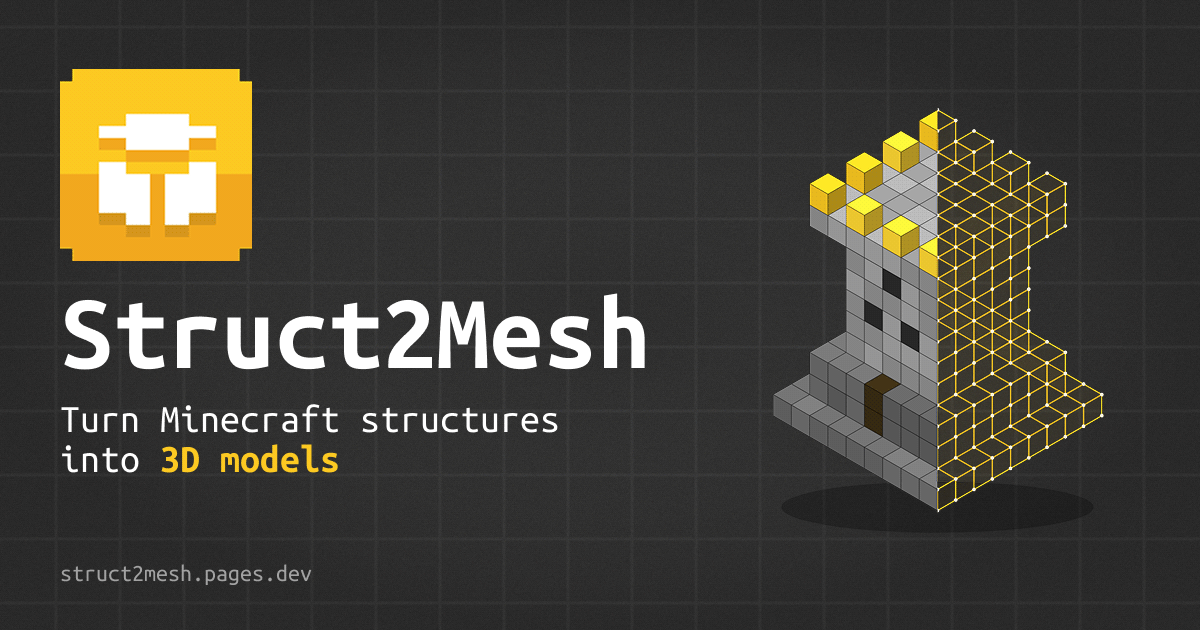
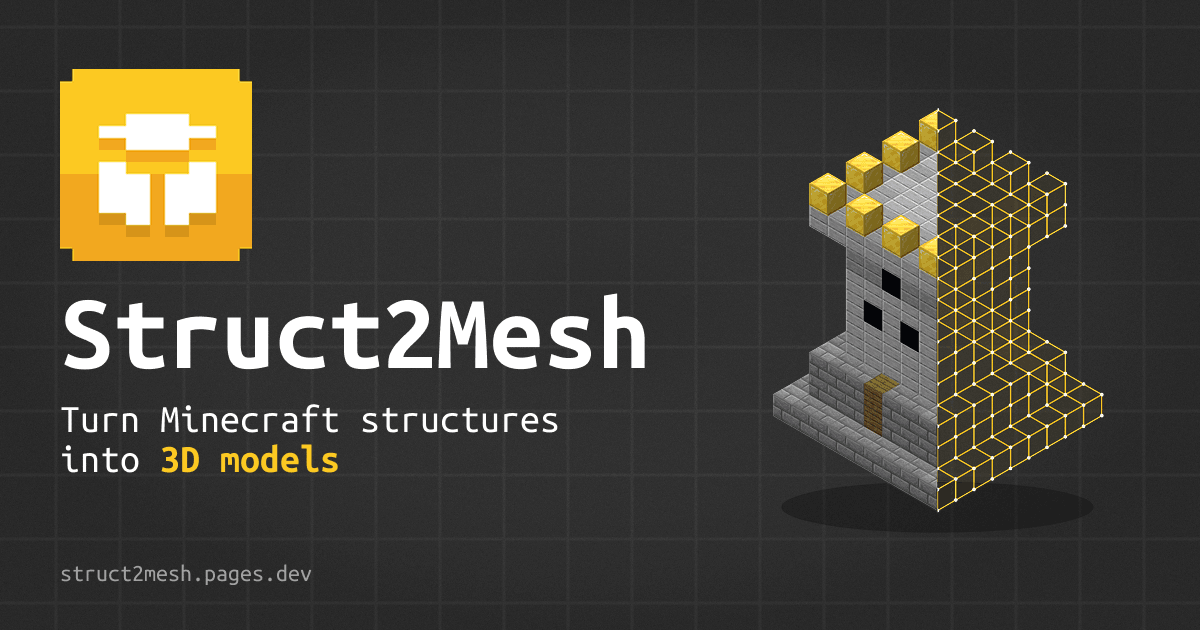
updated web template meta tags and og image

Changed region(s): [[0.6475, 0.181, 0.8017, 0.8143]]

diff --git a/src/minecraft.structure.loader/Assets/WebGLTemplates/Fullscreen/index.html b/src/minecraft.structure.loader/Assets/WebGLTemplates/Fullscreen/index.html
@@ -1,24 +1,52 @@
 <!DOCTYPE html>
-<html lang="en-us">
+<html lang="en-US">
   <head>
     <meta charset="utf-8">
-    <meta http-equiv="Content-Type" content="text/html; charset=utf-8">
-    <meta name="author" content="struct2mesh.pages">
+    <meta name="viewport" content="width=device-width, initial-scale=1">
+    <meta name="theme-color" content="#292929">
+
+    <title>{{{ PRODUCT_NAME }}} – Minecraft Structure to 3D Model Converter</title>
+    <meta name="description" content="Convert Minecraft structures into 3D models. Upload a structure file, view and export.">
+    <link rel="canonical" href="https://struct2mesh.pages.dev/">
+
+    <meta name="author" content="@SNIGUR">
     <meta name="keywords" content="Minecraft, Structure, Viewer, Converter, Datapack, Resource Pack, Mesh, Model, 3D, NBT, Schem, Litematic, Mcstructure, Schematic, FBX, GLB, GLTF, OBJ, PLY">
-    <title>{{{ PRODUCT_NAME }}}</title>
-    <link rel="shortcut icon" href="TemplateData/favicon.ico">
+    
+    <link rel="icon" href="TemplateData/favicon.ico">
+
     <link rel="stylesheet" href="TemplateData/style.css">
+
     <meta property="og:type" content="website">
+    <meta property="og:site_name" content="{{{ PRODUCT_NAME }}}">
     <meta property="og:url" content="https://struct2mesh.pages.dev/">
-    <meta property="og:title" content="{{{ PRODUCT_NAME }}}">
-    <meta property="og:description" content="Convert any Minecraft structure into a 3D model. Upload a structure file, view, and export.">
+    <meta property="og:title" content="{{{ PRODUCT_NAME }}} - Minecraft Structure to 3D Model Converter">
+
+    <meta property="og:description" content="Convert Minecraft structures into 3D models. Upload a structure file, view and export.">
     <meta property="og:image" content="https://struct2mesh.pages.dev/TemplateData/og.png">
+    <meta property="og:image:type" content="image/png">
     <meta property="og:image:width" content="1200">
     <meta property="og:image:height" content="630">
+    <meta property="og:image:alt" content="Struct2Mesh logo with the tagline: Turn Minecraft structures into 3D models">
+    <meta property="og:locale" content="en_US">
 
     <meta name="twitter:card" content="summary_large_image">
-    <meta name="twitter:description" content="Convert any Minecraft structure into a 3D model. Upload a structure file, view and export.">
+    <meta name="twitter:title" content="{{{ PRODUCT_NAME }}} - Minecraft Structure to 3D Model Converter">
+    <meta name="twitter:description" content="Convert Minecraft structures into 3D models. Upload a structure file, view and export.">
     <meta name="twitter:image" content="https://struct2mesh.pages.dev/TemplateData/og.png">
+    <meta name="twitter:image:alt" content="Struct2Mesh logo with the tagline: Turn Minecraft structures into 3D models">
+
+    <script type="application/ld+json">
+    {
+      "@context": "https://schema.org",
+      "@type": "WebApplication",
+      "name": "{{{ PRODUCT_NAME }}}",
+      "url": "https://struct2mesh.pages.dev/",
+      "description": "Convert Minecraft structures into 3D models. Upload a structure file, view and export.",
+      "applicationCategory": "MultimediaApplication",
+      "operatingSystem": "Any (web browser)",
+      "image": "https://struct2mesh.pages.dev/TemplateData/og.png"
+    }
+    </script>
   </head>
   <body style="overflow: hidden;">
     <div id="unity-container" style="width: 100%; height: 100%;">
@@ -73,13 +101,9 @@
         document.getElementsByTagName('head')[0].appendChild(meta);
         document.querySelector("#unity-container").className = "unity-mobile";
         canvas.className = "unity-mobile";
-
-        // To lower canvas resolution on mobile devices to gain some
-        // performance, uncomment the following line:
-        // config.devicePixelRatio = 1;
-
-
-      } else {
+        config.devicePixelRatio = 1;
+      } 
+      else {
 
         canvas.style.width = "100%";
         canvas.style.height = "100%";
@@ -124,7 +148,8 @@
             </div>
             <div id="fileInfo"></div>
           </div>
-          
+                    
+        </div>
       </div>
     </div>
   </body>
